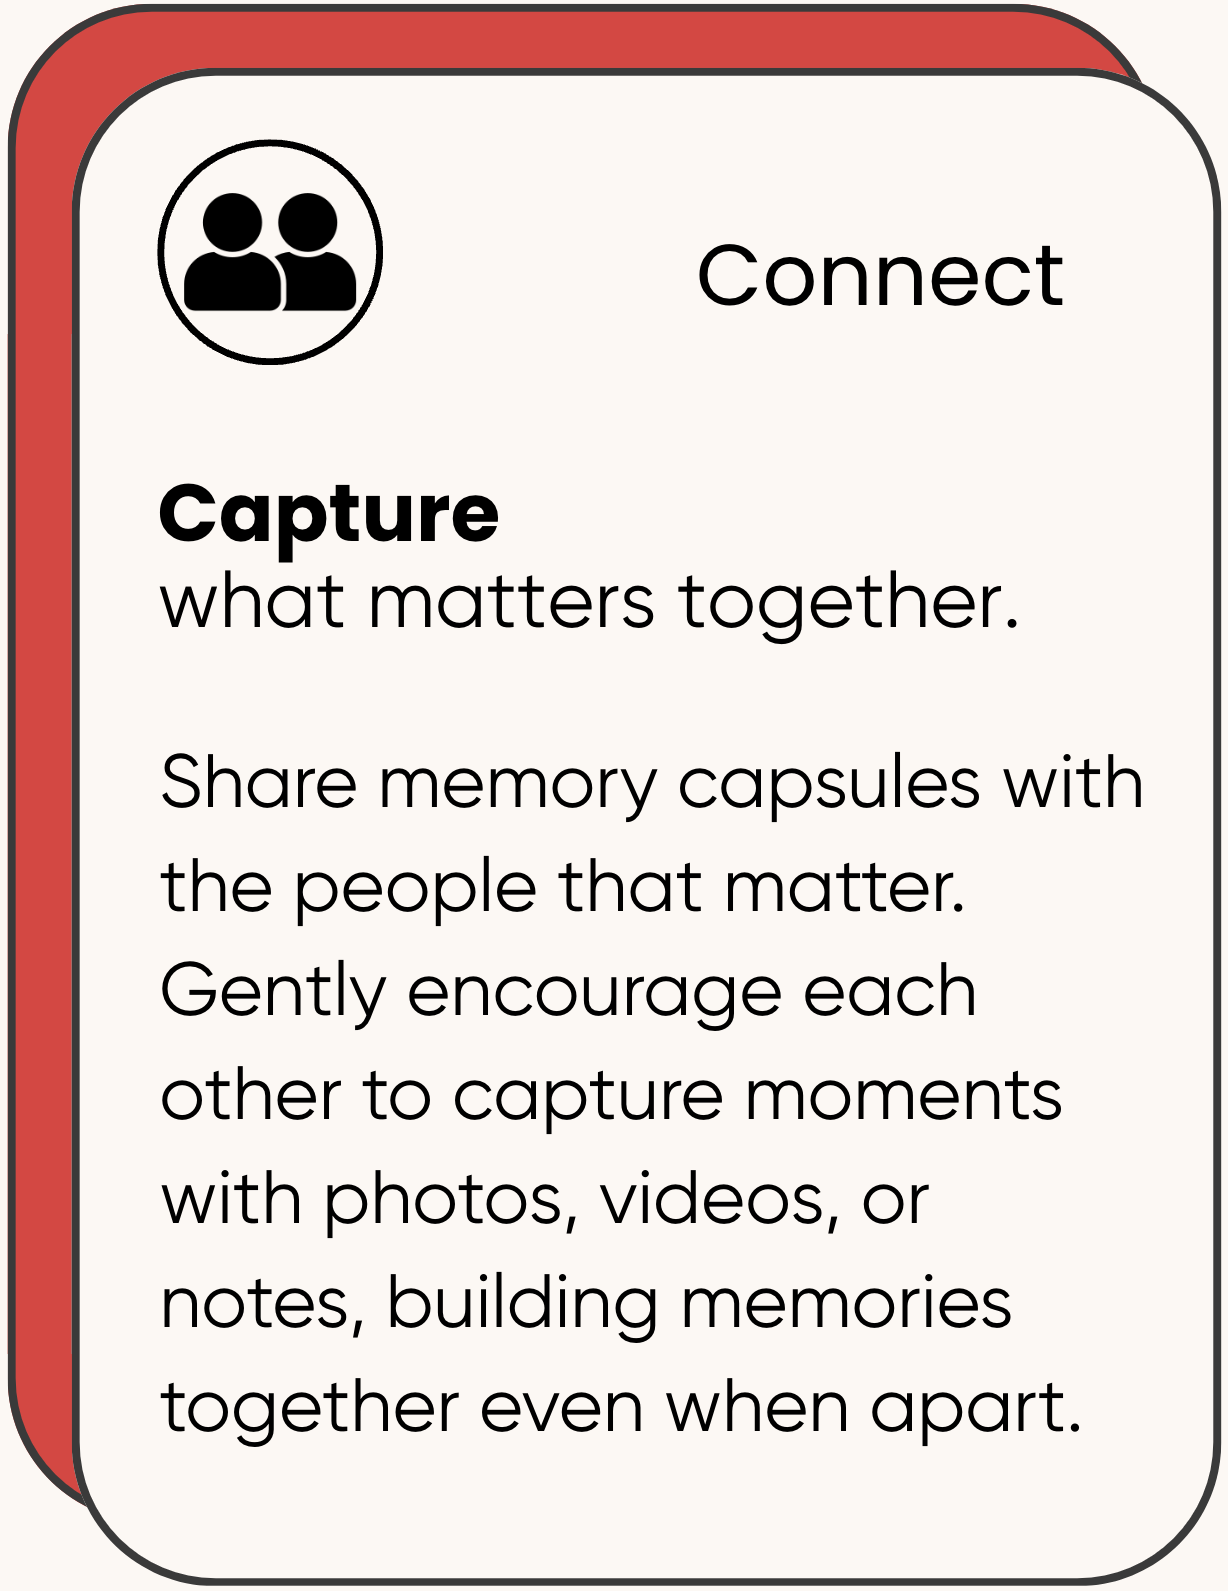
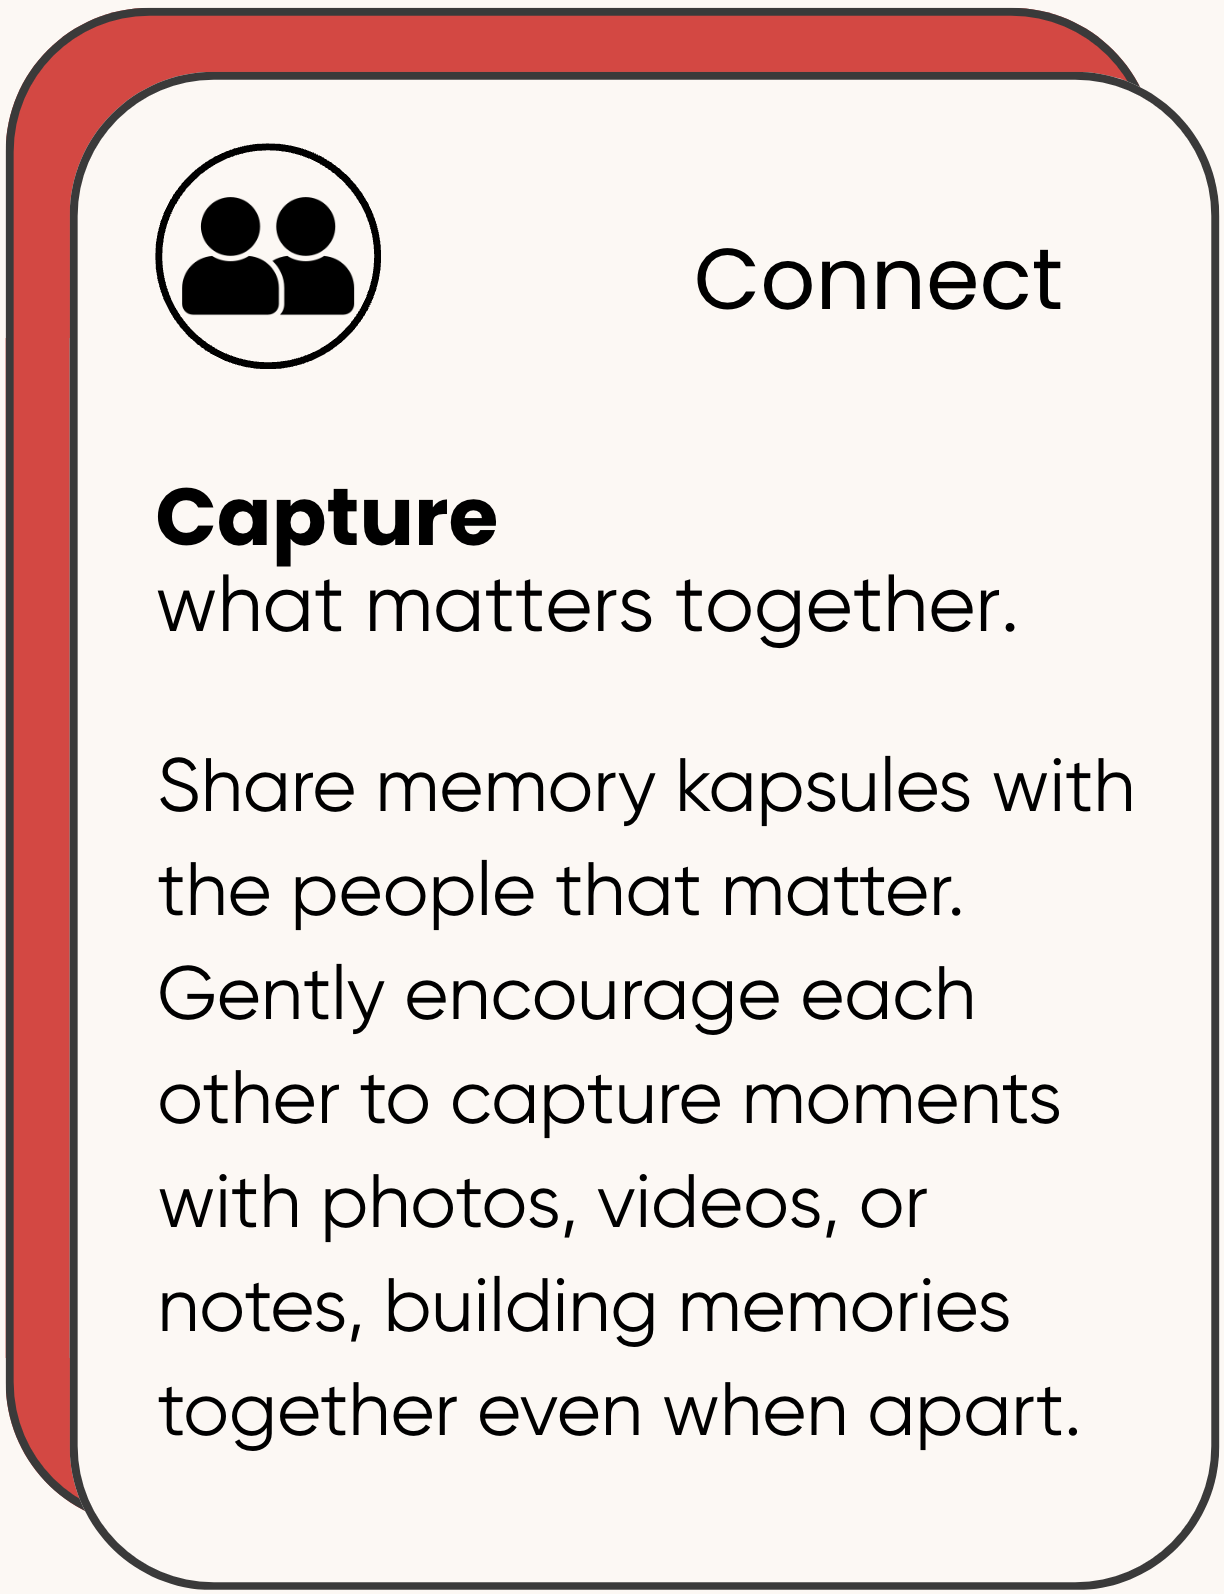
no commit message

diff --git a/src/App.js b/src/App.js
@@ -117,7 +117,7 @@ function App() {
                   life gets busy.
                 </p>
                 <p className="text-lg text-gray-600 mt-4 leading-relaxed">
-                  Build your own memory capsule together: share random moments,
+                  Build your own memory kapsule together: share random moments,
                   send surprise notes, do fun challenges, and keep the things that
                   matter.
                 </p>
@@ -143,7 +143,7 @@ function App() {
         </div>
 
         {/* Features section */}
-        <div className="bg-[#fdf8f3] pb-4 pt-16" id="features">
+        <div className="bg-[#fdf8f3] pb-4 pt-40" id="features">
           <div className="max-w-[90rem] mx-auto px-4 sm:px-6 lg:px-8">
             <div className="grid grid-cols-1 sm:grid-cols-2 lg:grid-cols-2 xl:grid-cols-4">
               <div className="text-center">
@@ -156,7 +156,7 @@ function App() {
               <div className="text-center">
                 <img
                   src="/features/2.png"
-                  alt="Capture the Moments"
+                  alt="Kapture the Moments"
                   className="mx-auto h-100 xl:h-92 w-auto mb-6 p-4"
                 />
               </div>
@@ -284,7 +284,7 @@ function App() {
                   </a> */}
                   {/* Email */}
                   <a 
-                    href="emma.timekap@gmail.com" 
+                    href="mailto:emma.timekap@gmail.com" 
                     className="text-gray-300 hover:text-[#ffce3e] transition-colors duration-200"
                     aria-label="Email"
                   >

diff --git a/src/App.css b/src/App.css
@@ -1,7 +1,9 @@
 .hero-section {
     position: relative;
-    min-height: 96vh;
+    min-height: 70vh;
+    padding-bottom: 1rem; /* Add consistent bottom padding */
     z-index: 0;
+    overflow: visible; /* Allow the pseudo-element to extend beyond */
 }
 
 .hero-section > * {
@@ -16,32 +18,36 @@
     left: 50%;
     transform: translateX(-50%);
     width: 100%;
-    height: 100%;
+    height: calc(100% + 4rem); /* Extend beyond the parent's height */
     background: #ffce3e;
     border-radius: 0 0 700px 700px;
     z-index: 1;
 }
 
-/* Mobile screens - make hero section longer */
+/* Mobile screens */
 @media (max-width: 768px) {
     .hero-section {
-        min-height: 80vh; /* Increase minimum height on mobile */
-        padding: 0 0 3rem 0; /* Add more padding at bottom */
+        min-height: 80vh;
+        padding-bottom: 2rem; /* Adjusted padding for mobile */
+    }
+    
+    .hero-section::before {
+        height: calc(100% + 3rem); /* Slightly less extension on mobile */
     }
 }
 
-/* Small mobile screens - even longer */
+/* Small mobile screens */
 @media (max-width: 480px) {
     .hero-section {
-        min-height: 90vh; /* Even longer on very small screens */
-        padding: 0 0 4rem 0; /* More padding */
+        min-height: 90vh;
+        padding-bottom: 2rem;
     }
 }
 
 /* Tablet screens */
 @media (min-width: 769px) and (max-width: 1024px) {
     .hero-section {
-        min-height: 70vh; /* Slightly longer on tablets */
-        padding: 0 0 2.5rem 0;
+        min-height: 70vh;
+        padding-bottom: 1rem;
     }
 }
